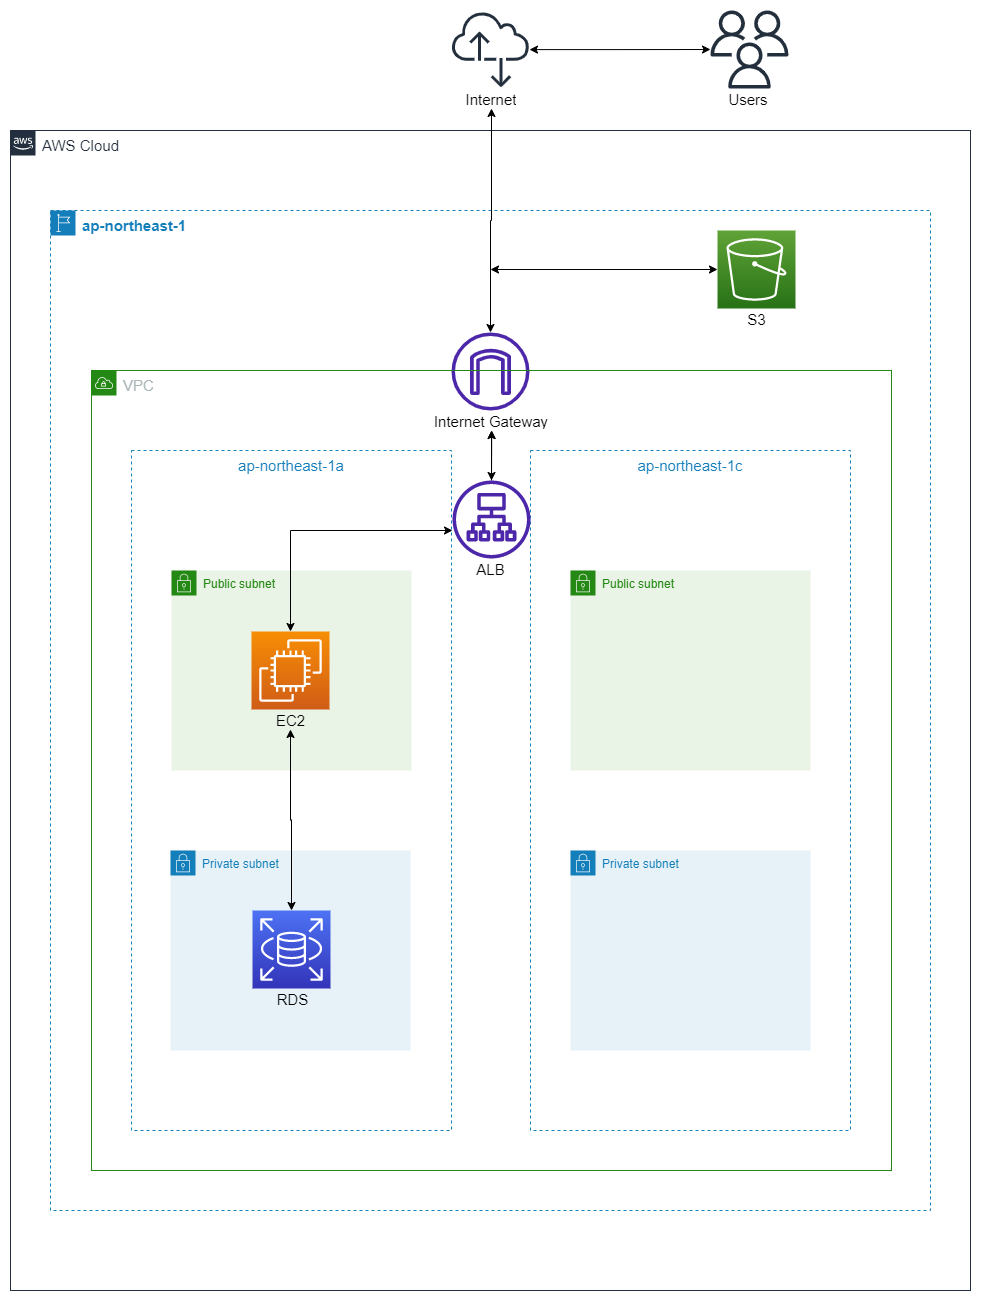
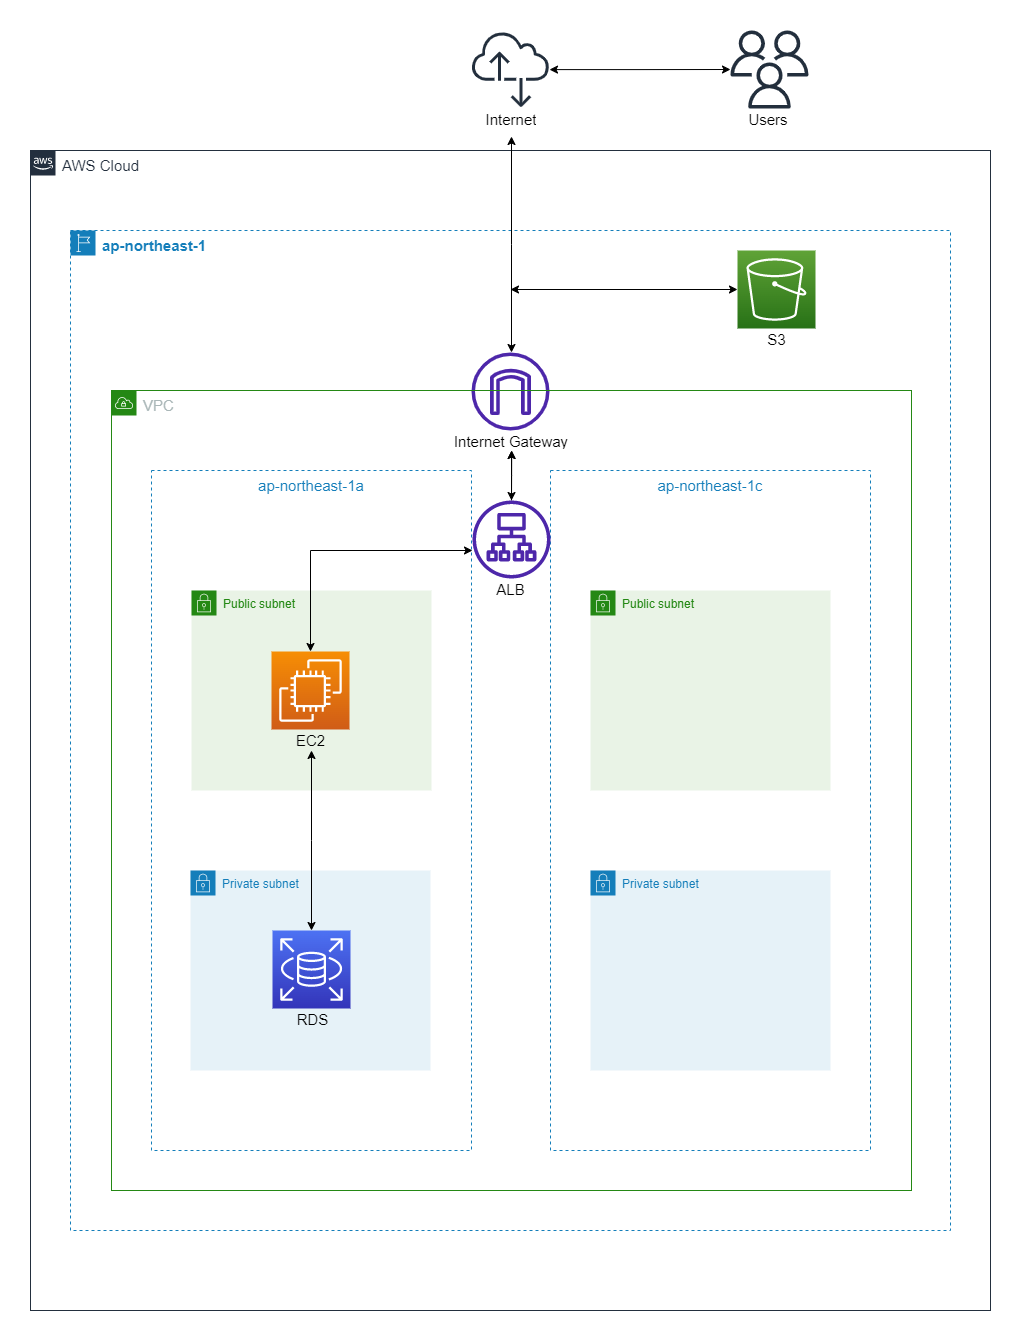
“学んだことを追加”

diff --git a/lecture05/lecture05_AWSConfigurationChart.md b/lecture05/lecture05_AWSConfigurationChart.md
@@ -1,4 +1,9 @@
 ## AWS構成図 ##
 ### 第5回課題にて作成した環境の構成図 ###
 
-[lecture05_AWSConfigurationChart](../images/lecture05_AWSConfigurationChart.png)
+![lecture05_AWSConfigurationChart](../images/lecture05_AWSConfigurationChart.png)
+
+### この作業から学んだこと ###
+* draw.ioの使い方、保存の仕方
+* AWS構成図の書き方
+* 線をまっすぐ引く方法
